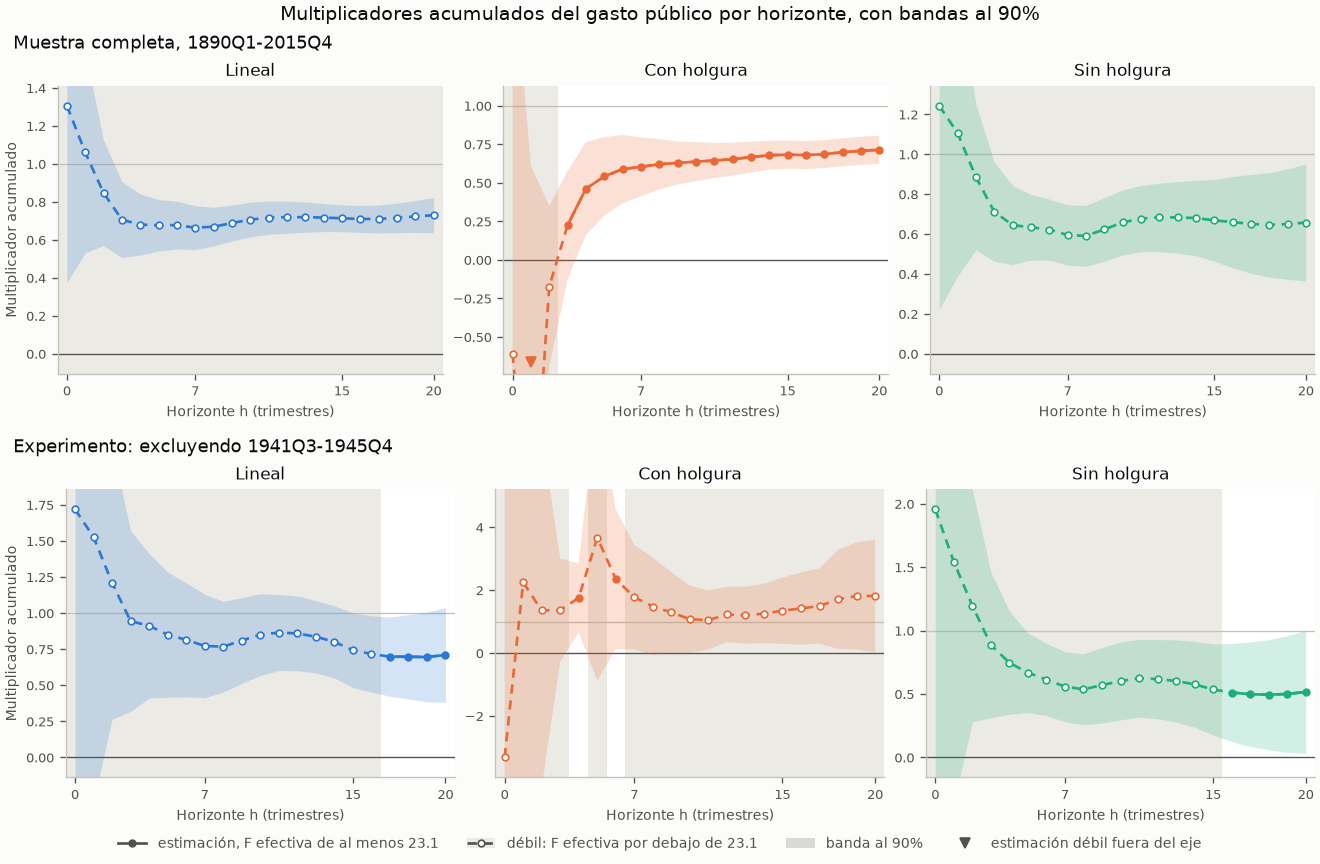
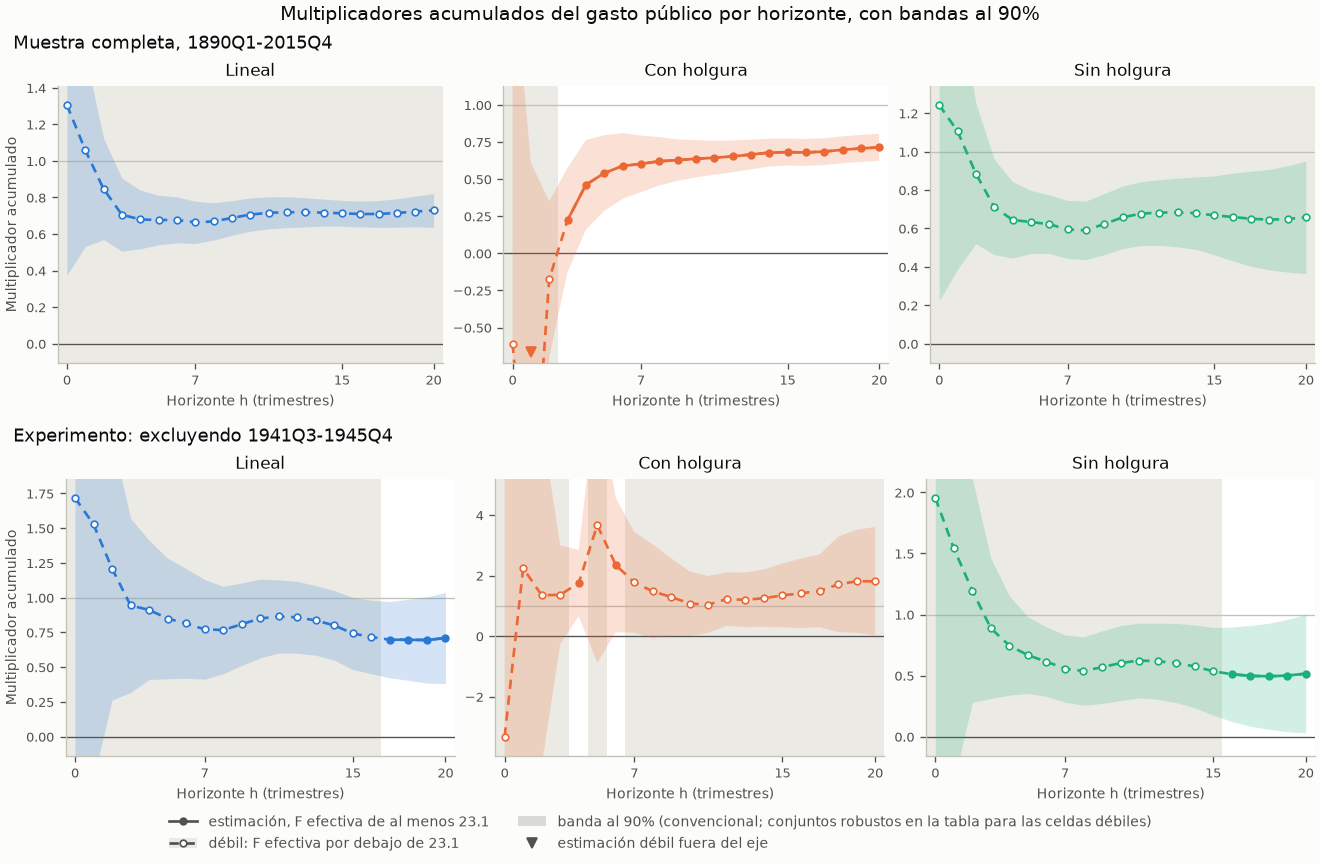
docs(brief): the figure's band is the conventional one
The legend's "90% band" also covered the conventional bands of weak
horizons. It now reads "90% band (conventional; robust sets in the table for
weak cells)", and in Spanish "banda al 90% (convencional; conjuntos robustos
en la tabla para las celdas débiles)". The legend takes two columns so the
longer labels fit the figure; both figures are regenerated.

diff --git a/puremacro/examples/first_brief_fiscal.py b/puremacro/examples/first_brief_fiscal.py
@@ -645,7 +645,7 @@ _TEXT: dict[str, dict[str, str]] = {
         "fig_y": "Cumulative multiplier",
         "fig_strong": "estimate, effective F of at least {c}",
         "fig_weak": "weak: effective F below {c}",
-        "fig_band": "90% band",
+        "fig_band": "90% band (conventional; robust sets in the table for weak cells)",
         "fig_off": "weak estimate beyond the axis",
     },
     "es": {
@@ -674,7 +674,8 @@ _TEXT: dict[str, dict[str, str]] = {
         "fig_y": "Multiplicador acumulado",
         "fig_strong": "estimación, F efectiva de al menos {c}",
         "fig_weak": "débil: F efectiva por debajo de {c}",
-        "fig_band": "banda al 90%",
+        "fig_band": ("banda al 90% (convencional; conjuntos robustos en la tabla para las celdas "
+                     "débiles)"),
         "fig_off": "estimación débil fuera del eje",
     },
 }
@@ -1136,7 +1137,7 @@ def _figure_png(record: dict[str, Any], paths: pd.DataFrame, lang: str) -> bytes
     if off_axis:
         handles.append(Line2D([], [], color=_INK_2, ls="none", marker="v", ms=6))
         labels.append(t["fig_off"])
-    fig.legend(handles, labels, loc="outside lower center", ncols=len(handles), frameon=False,
+    fig.legend(handles, labels, loc="outside lower center", ncols=2, frameon=False,
                fontsize=8.5, labelcolor=_INK_2)
     fig.suptitle(t["fig_title"], fontsize=11.5, color=_INK)
     buffer = io.BytesIO()
